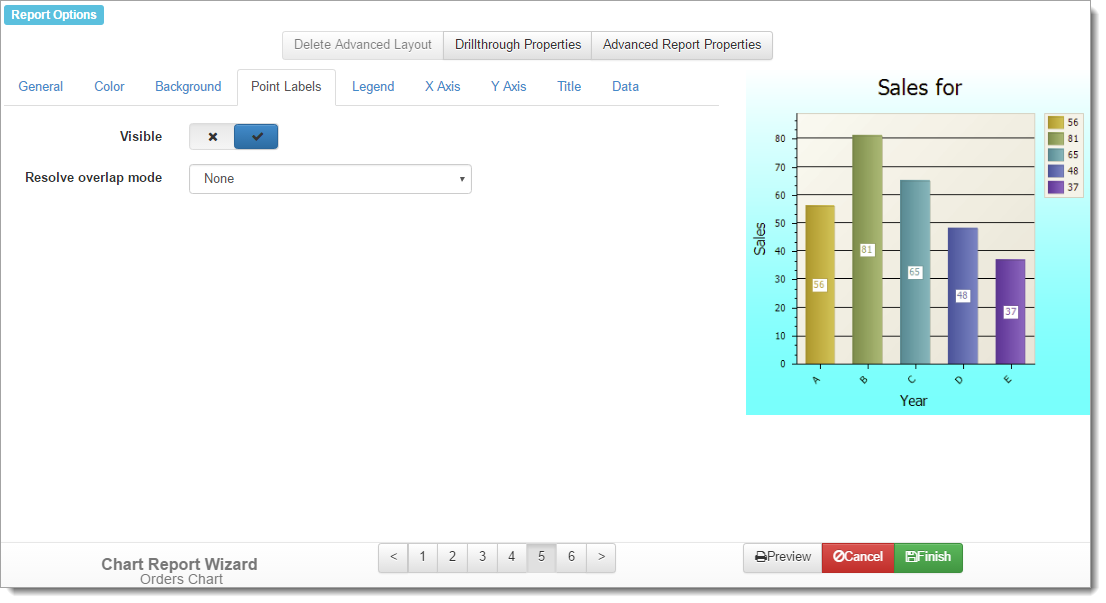
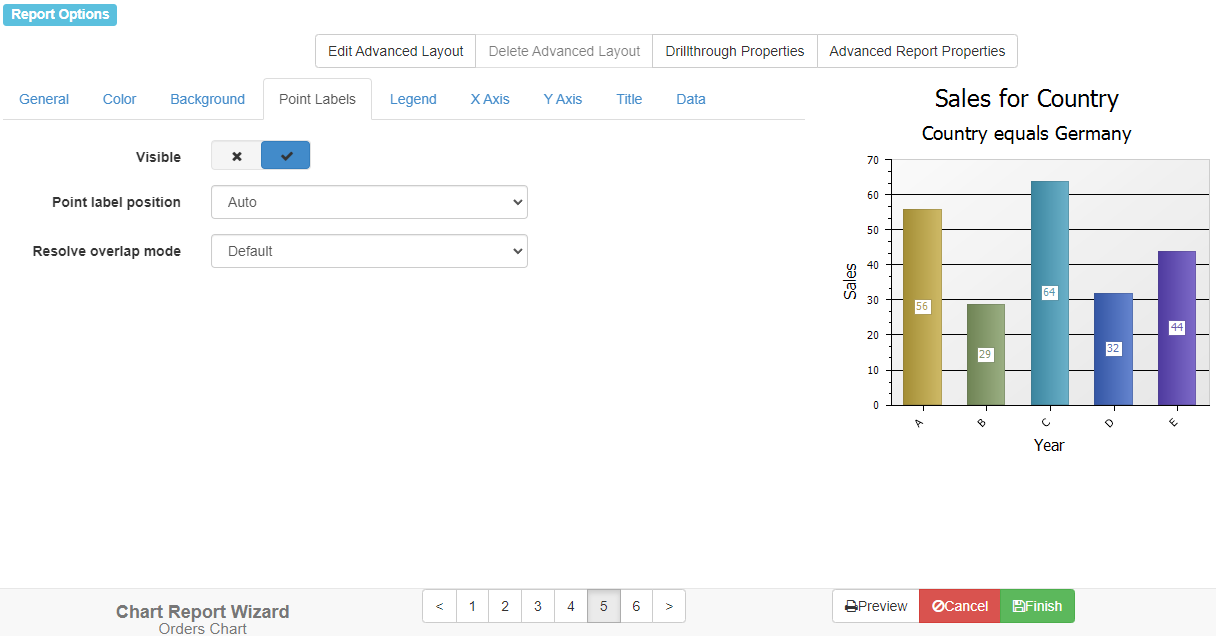
Updated whats new topic for 1.0 release. Made a few fixes and additions, and updated screenshots to reflect new UI changes.

diff --git a/_docs/whats-new.md b/_docs/whats-new.md
@@ -7,4 +7,55 @@ parent: Home
 
 # Version 1.0
 
-* 1.0 features...
+* The first time a user [logs in]({% link _docs/logging-in.md %}), they are now prompted to take a tour of the reports explorer.
+
+* Added new [template]({% link _docs/creating-reports/templates.md %}) objects, "GroupFooterSummaryTypeTemplate" and "SummaryFieldTypeTemplate". These allow you to display the summary type being performed in a group footer or report footer respectively. See the new "Standard with Summary Type" template for an example of how to use it. 
+
+* [Administrators]({% link _docs/configuration/security.md %}) can now restrict acccess to email settings.
+
+* You can now change the location of point labels for Pie, Bar, and Line [charts]({% link _docs/creating-reports/chart-reports/step5.md %}).
+
+* You can now add a shadow to chart types that support it.
+
+* Chart reports now support using a date field as the Category.
+
+* The [advanced report designer]({% link _docs/creating-reports/advanced-layout-designer/index.md %}) can now be used to edit the layout of Charts.
+
+* You can now set [templates]({% link _docs/creating-reports/templates.md %}) for a chart report. The default template for charts is the new basic template called Standard Chart.
+
+* [Cross-tab reports]({% link _docs/creating-reports/cross-tab-reports/index.md %}) now support templates without a header band.
+
+* Cross-tab reports now support multiple embedded [subreports]({% link _docs/creating-reports/subreports.md %}).
+
+* [Formulas]({% link _docs/creating-reports/formulas.md %}) created when inside a report wizard will automatically be added to the report.
+
+* You can now search formulas using the *real* name of the formula field (e.x. CALC20220193203922).
+
+* When working with date values in a [filter condition]({% link _docs/creating-reports/filtering/including-records.md %}), the entire date is now selected when you move to a date input. This allows you to immediately start typing a new value and it will automatically clear the old value. 
+
+* You now get a warning if you enter an invalid date range for an "is between" filter condition.
+
+## Bug Fixes
+
+* Fixed a problem with email not using SSL, even if the option was turned on.
+
+* Fixed an issue with the connection string plugin not appearing under some circumstances.
+
+* Fixed an issue with empty tags being created when importing a report. 
+
+* Fixed a bug with embedded subreports not working correctly in a cross-tab.
+
+* Fixed an issue with horizontal pagination not working property in a cross-tab.
+
+* Scheduled tasks should no longer temporarily lock a license.
+
+* Fixed a bug that caused date formats to be applied to a summary column.
+
+* Fixed a bug that occurred when uploading a logo image if tenants are supported.
+
+* Fixed a display issue in Security that caused user names to appear on the same line in the user list.
+
+* Fixed an issue with Exclusion filters not appearing in report wizards.
+
+* Fixed an issue with field width when using metric units.
+

diff --git a/_docs/creating-reports/templates.md b/_docs/creating-reports/templates.md
@@ -94,9 +94,13 @@ The templates that come with {{ site.app_name }} have the following objects:
 
 * *GroupFooterSummaryFieldTemplate*: a placeholder for summary fields in a group footer band. Its horizontal and vertical position determines the location of these objects and its Tag property contains "GroupFooterSummaryFieldTemplate." Its Style property is set to "GroupFooterSummaryFieldStyle". As with GroupHeadingTemplate, there may be more than one of these and the same concepts apply.
 
+* *GroupFooterSummaryTypeTemplate*: a placeholder for summarization type in a group footer band. Its horizontal and vertical position determines the location of these objects and its Tag property contains "GroupFooterSummaryTypeTemplate". Its Style property is set to "GroupFooterSummaryFieldStyle". Use this template object to show the type of summary being performed for a given column in a group footer.
+
 * *RecordCount*: displays the record count at the end of the report.
 
 * *SummaryFieldTemplate*: a placeholder for summary fields at the end of the report. Its position isn't important but its Tag property contains "SummaryFieldTemplate." Its Style property is set to "SummaryFieldStyle".
+
+* *SummaryFieldTypeTemplate*: a placeholder for summarization type at the end of the report. Its position isn't important but its Tag property contains "SummaryFieldTypeTemplate." Its Style property is set to "SummaryFieldStyle". Use this template object to show the type of summary being performed for a given column in a report footer.
 
 A template may have other objects as well. For example, the Standard template has lines above and below the column headings and a line above the summary fields in the ReportFooter band. The Professional - Blue template, shown in the picture above, has panels in the PageHeader and GroupHeader bands that contain the placeholder objects and a line about the summary fields in the ReportFooter band.
 

diff --git a/_docs/creating-reports/chart-reports/step5.md b/_docs/creating-reports/chart-reports/step5.md
@@ -117,6 +117,8 @@ The Point Labels page allows you to control the appearance of the point labels, 
 
 * *Visible*: turn this setting off if you don't want point labels to appear or on if you do want them to appear.
 
+* *Point label position*: this controls where the point labels appear in the diagram. 
+
 * *Resolve overlap mode*: this controls how to resolve labels that overlap when there are many data points or the values are long. The choices are:
 
     * *None*: does nothing.
